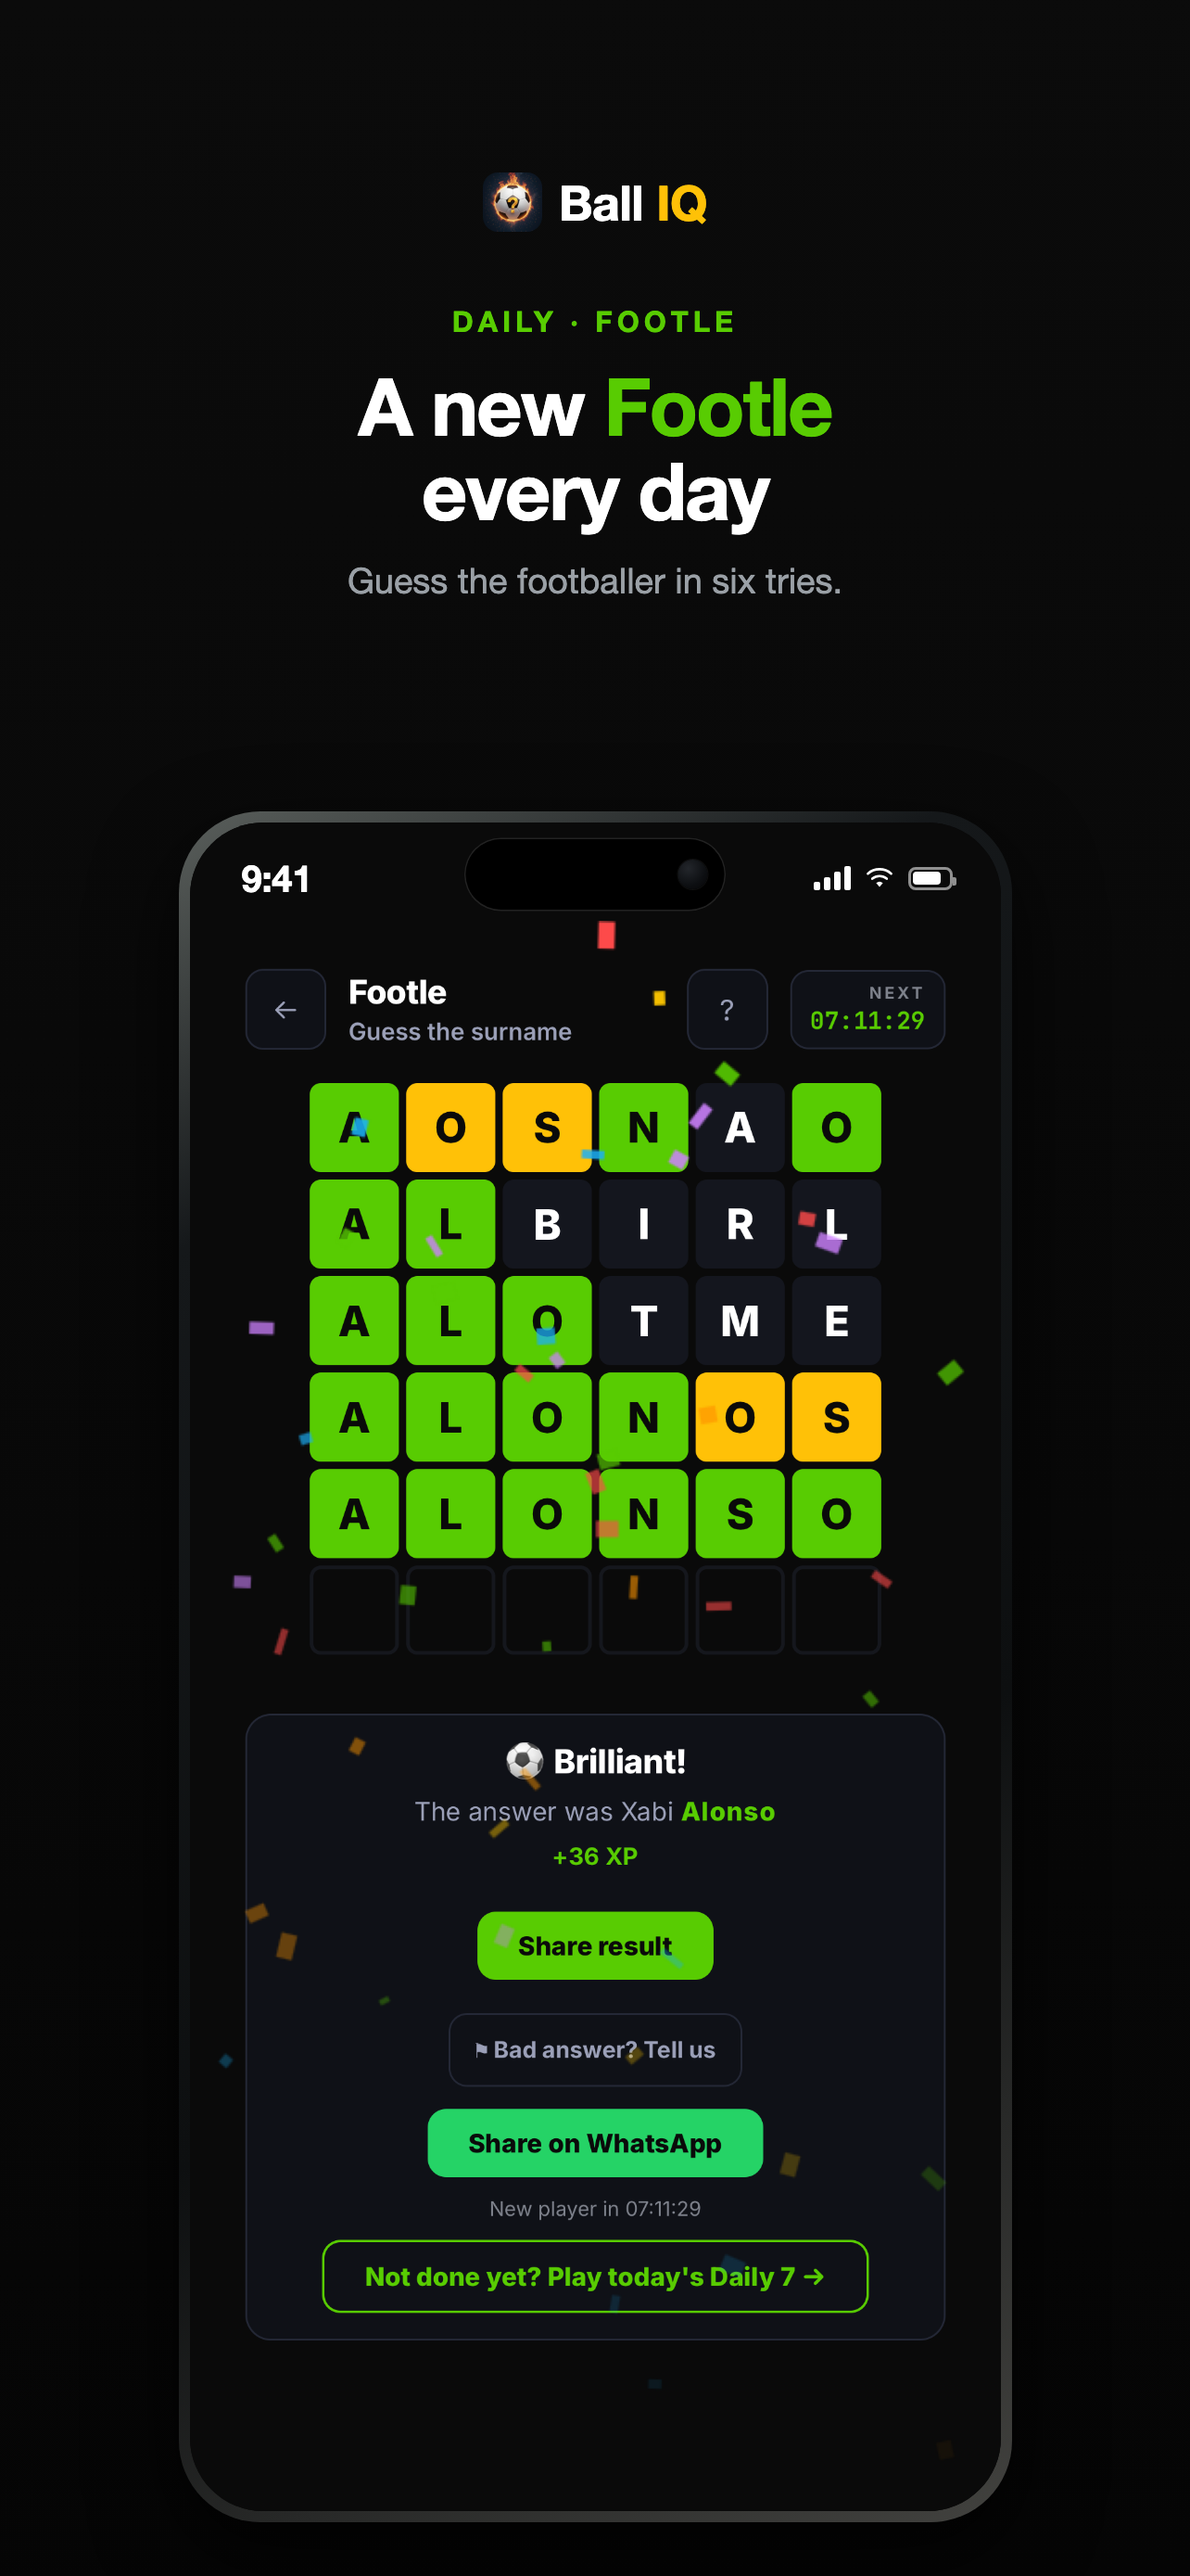
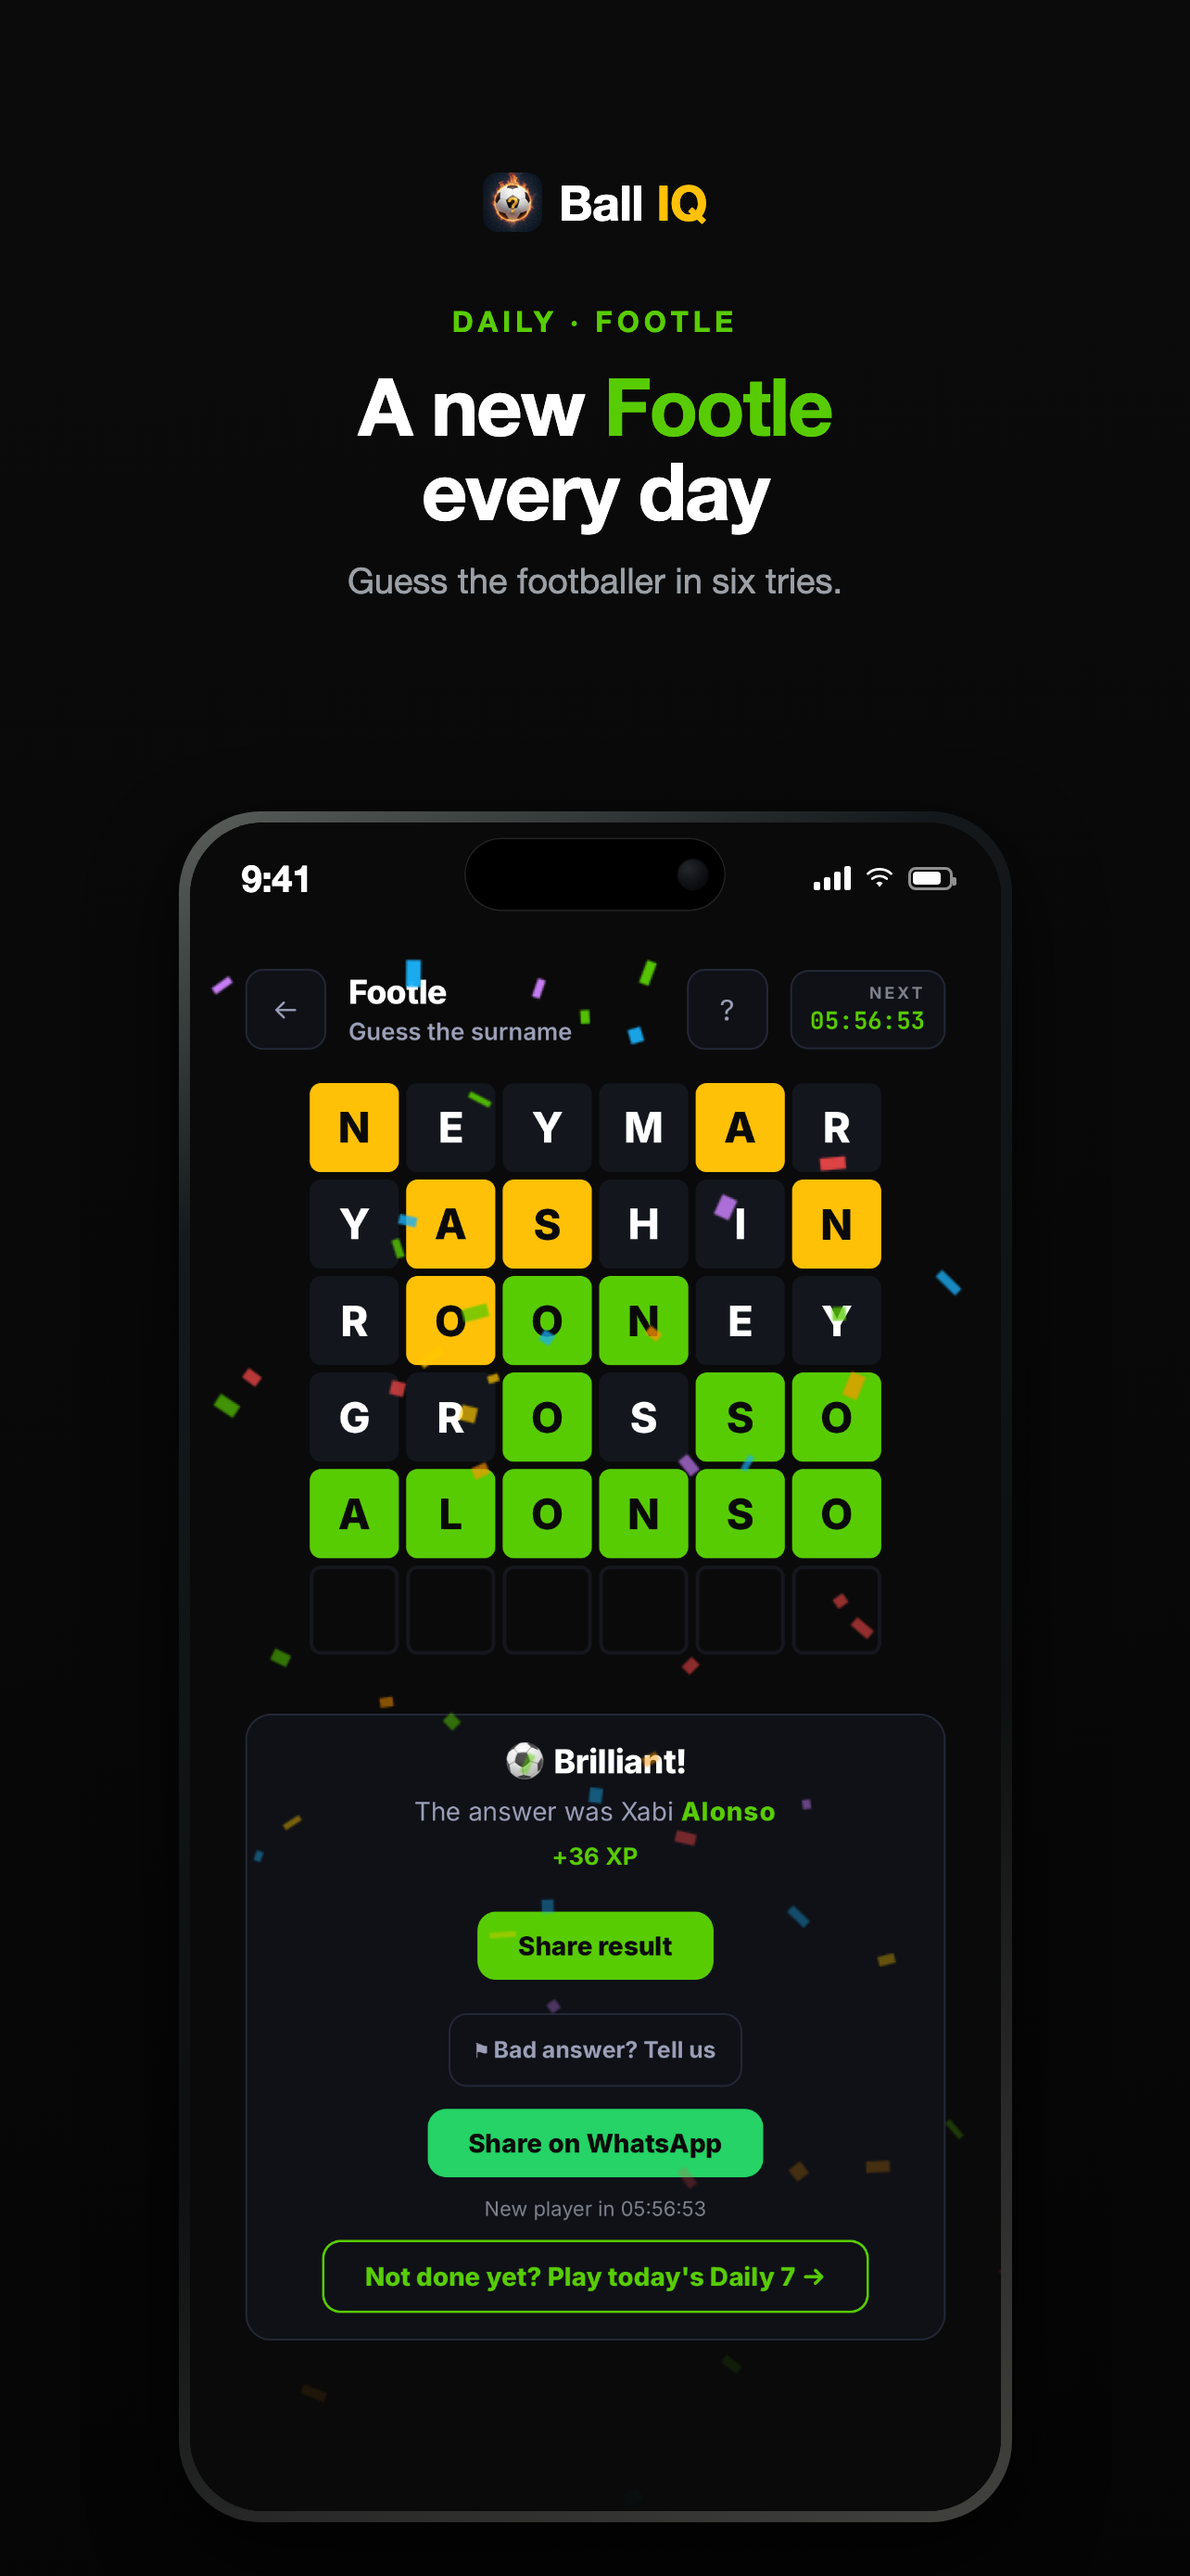
fix(store-shots): the Footle board was obviously staged — build it from real players
The decoy generator kept the answer's first r+1 letters IN PLACE and padded
the rest from a fixed alphabet:

    g += (i <= r) ? A[i] : pool[(i * 3 + r * 5) % pool.length]

Against ALONSO that shipped AOSNAO / ALBIRL / ALOTME / ALONOS / ALONSO —
three greens on the first guess, 'ALO' spelled out by the third, and not one
row a real word. Alex spotted it immediately. Both existing checks passed:
the screen assertion (it IS Footle) and the board assertion (>=15 tiles
filled). Neither can see 'this looks fake', so the shape has to be right by
construction rather than caught afterwards.

footleLadder() now picks four real footballer surnames from the 9k mystery
pool, fame-sorted so a fan reads Neymar and Rooney, graded with the app's own
gradeWordleGuess, and banned from showing any green in the first two rows —
an early green is the single biggest tell. submitGuess() checks LENGTH ONLY,
so we are free to use the full pool rather than Footle's 406-name answer list,
which is too small to furnish a ladder at most word lengths.

Today: NEYMAR / YASHIN / ROONEY / GROSSO / ALONSO, solved on the fifth.
Verified across 12 future daily answers, not just today's.

Also adds ONLY= to both the shooter and the framer. Every shot here is
non-deterministic, so a full re-run to fix one image silently re-rolls the
seven already approved.

diff --git a/store-assets/1.6.0/LISTING.md b/store-assets/1.6.0/LISTING.md
@@ -122,13 +122,30 @@ costing the bullet its meaning. Say what was wrong and what is now right.
 | file | status |
 |---|---|
 | 01-home | re-shot |
-| 02-footle | **reused** — Alex: "looks alright as is" |
+| 02-footle | **RE-SHOT 2026-08-15** — see the note below |
 | 03-club-picker | re-shot |
 | 04-transfer-trail | **NEW** — won on the last of five attempts |
 | 05-quiz-explanation | re-shot |
 | 06-profile | re-shot |
 | 07-mystery-player | **NEW** — solved on the sixth guess |
 | 08-daily-chips | **NEW** — the green/red chip run, 5 ✓ 7/7 |
+
+⚠ **02 was a staged-looking board and shipped that way once.** The generator
+built each row as "keep the answer's first r+1 letters in place, pad with junk",
+so against ALONSO it produced `AOSNAO · ALBIRL · ALOTME · ALONOS · ALONSO` —
+three greens on guess one, "ALO" spelled out by guess three, and not one row a
+real word. Alex: *"really dumb and easy… you almost wrote the right name in the
+first couple then got dumber."* It passed both the screen check and the
+≥15-filled-tiles board check; nothing mechanical detects "this looks fake".
+
+Now built by `footleLadder()` from the 9k mystery pool, fame-sorted, with **no
+greens allowed in the first two rows**. Today: `NEYMAR · YASHIN · ROONEY ·
+GROSSO · ALONSO`, solved on the fifth. Verified across 12 future daily answers —
+all four rows real surnames, first two rows green-free, every day.
+
+Both scripts now take `ONLY=02-footle` so one bad shot can be redone without
+re-rolling the other seven (every shot is non-deterministic — daily answers
+rotate and quiz options shuffle).
 
 ⚠ 08 stops ON the last question, not the results page. Finishing the daily as a
 guest raises the "Save your progress" auth sheet, and it appears AFTER the
